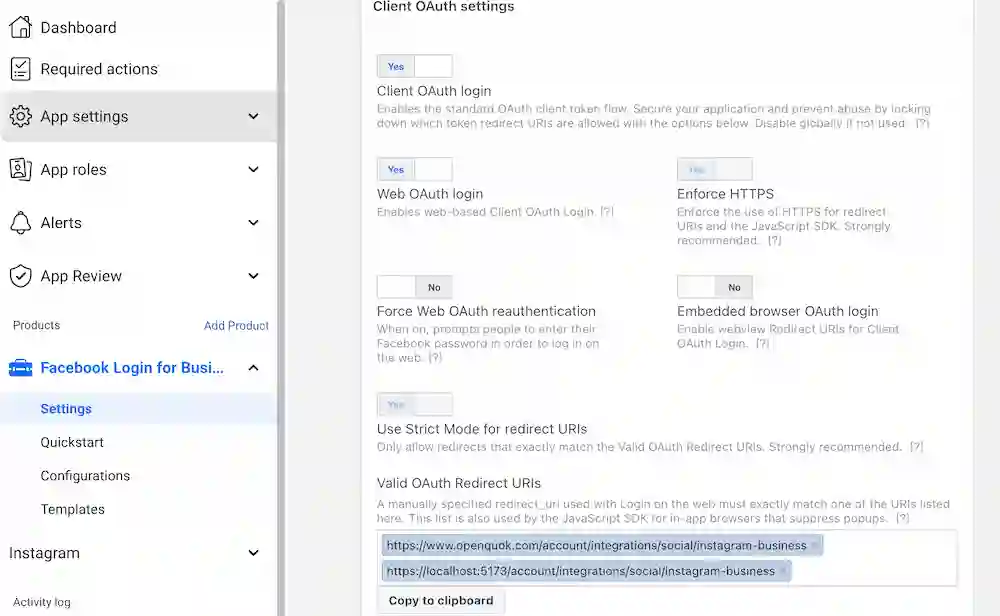
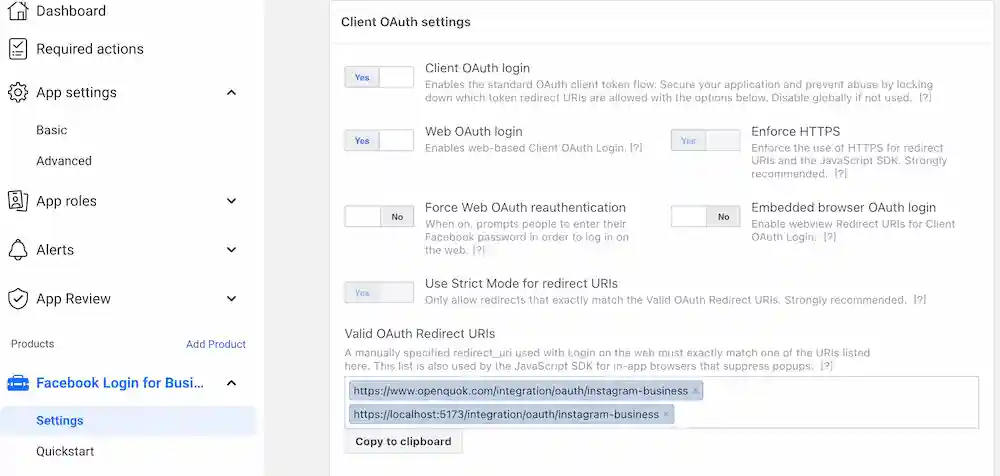
Refactor (./backend): Using public OAuth callback route for anonymous social integration connects instead of protected one

diff --git a/web/src/lib/ui/components/posts/IntegrationContinue.svelte b/web/src/lib/ui/components/posts/IntegrationContinue.svelte
@@ -5,11 +5,14 @@
 	import utc from 'dayjs/plugin/utc';
 	import timezone from 'dayjs/plugin/timezone';
 
+	import { browser } from '$app/environment';
 	import { goto } from '$app/navigation';
 	import { page } from '$app/state';
 	import { getRootPathAccount } from '$lib/area-protected';
+	import { integrationOAuthCallbackPath } from '$lib/integration/oauthCallbackPath';
 	import { continueIntegrationPresenter, integrationsRepository } from '$lib/integrations';
 	import { workspaceSettingsPresenter } from '$lib/settings';
+	import { getRootPathSignin } from '$lib/user-auth/constants/getRootpathUserAuth';
 	import { authenticationRepository } from '$lib/user-auth';
 	import { toast } from '$lib/ui/sonner';
 	import { absoluteUrl, route, url } from '$lib/utils/path';
@@ -33,6 +36,10 @@
 	};
 
 	let busy = $state(true);
+	/** Signed-out user landed without OAuth callback params — GET authorize requires a session. */
+	let signInRequiredForOAuthStart = $state(false);
+	/** Signed-out user finished OAuth server-side; prompt sign-in to open `/account`. */
+	let oauthAnonymousSuccess = $state<{ provider: string; onboarding: boolean } | null>(null);
 	/** Indeterminate-style value for {@link CircularProgressBar} while work is in progress. */
 	let progressValue = $state(45);
 	/** Inline Instagram (Business) account selection — same route as OAuth callback. */
@@ -84,6 +91,31 @@
 	const organizationIdParam = $derived(page.url.searchParams.get('organizationId') ?? '');
 	const returnTo = $derived(page.url.searchParams.get('returnTo') ?? route(getRootPathAccount()));
 	const onboarding = $derived(page.url.searchParams.get('onboarding') ?? undefined);
+
+	function signInHrefForRedirectTarget(targetPathAndQuery: string): string {
+		const signIn = getRootPathSignin();
+		const redirectURL = encodeURIComponent(route(targetPathAndQuery));
+		return absoluteUrl(`/${signIn}?redirectURL=${redirectURL}`);
+	}
+
+	let signInToContinueHref = $derived.by(() =>
+		signInHrefForRedirectTarget(`${page.url.pathname}${page.url.search}`)
+	);
+
+	let signInAfterAnonymousConnectHref = $derived.by(() => {
+		const o = oauthAnonymousSuccess;
+		if (!o) return '';
+		const accountRoot = route(getRootPathAccount());
+		const qs = new URLSearchParams({ added: o.provider });
+		if (o.onboarding) qs.set('onboarding', 'true');
+		return signInHrefForRedirectTarget(`${accountRoot}?${qs}`);
+	});
+
+	function oauthContinueAbsolute(providerSlug: string, searchParams?: URLSearchParams): string {
+		const path = integrationOAuthCallbackPath(providerSlug);
+		if (!searchParams || [...searchParams].length === 0) return absoluteUrl(path);
+		return absoluteUrl(`${path}?${searchParams}`);
+	}
 
 	function timezoneOffsetMinutes(): string {
 		const zone = dayjs.tz.guess() || 'UTC';
@@ -192,10 +224,7 @@
 						successReturnPath: returnTo,
 						onboarding: data.onboarding
 					};
-					await goto(
-						absoluteUrl(`${accountRoot}/integrations/social/${encodeURIComponent(p)}`),
-						{ replaceState: true }
-					);
+					await goto(oauthContinueAbsolute(p), { replaceState: true });
 					busy = false;
 					return;
 				}
@@ -205,14 +234,17 @@
 					refresh: data.internalId,
 					...(onboarding === 'true' && { onboarding: 'true' })
 				});
-				await goto(absoluteUrl(`${accountRoot}/integrations/social/${encodeURIComponent(p)}?${qs}`), {
-					replaceState: true
-				});
+				await goto(oauthContinueAbsolute(p, qs), { replaceState: true });
 				return;
 			}
 
 			const successQs = new URLSearchParams({ added: p });
 			if (data.onboarding) successQs.set('onboarding', 'true');
+			if (!authenticationRepository.isAuthenticated()) {
+				oauthAnonymousSuccess = { provider: p, onboarding: data.onboarding };
+				busy = false;
+				return;
+			}
 			await goto(absoluteUrl(`${accountRoot}?${successQs}`), { replaceState: true });
 		} finally {
 			busy = false;
@@ -244,6 +276,11 @@
 			const accountRoot = route(getRootPathAccount());
 			const successQs = new URLSearchParams({ added: 'instagram-business' });
 			if (vm.onboarding) successQs.set('onboarding', 'true');
+			if (!authenticationRepository.isAuthenticated()) {
+				oauthAnonymousSuccess = { provider: 'instagram-business', onboarding: vm.onboarding };
+				igBusinessPicker = null;
+				return;
+			}
 			await goto(absoluteUrl(`${accountRoot}?${successQs}`), { replaceState: true });
 			igBusinessPicker = null;
 		} catch {
@@ -258,7 +295,12 @@
 		await goto(absoluteUrl(dest), { replaceState: true });
 	}
 
-	async function startOAuthRedirect(p: string, orgParam: string, externalReturn: string) {
+	async function startOAuthRedirect(
+		p: string,
+		orgParam: string,
+		externalReturn: string,
+		refreshFromUrl: string | undefined
+	) {
 		try {
 			if (!workspaceSettingsPresenter.currentWorkspaceId) {
 				await workspaceSettingsPresenter.load({ includeTeam: false });
@@ -266,7 +308,7 @@
 			const organizationId = orgParam || workspaceSettingsPresenter.currentWorkspaceId || '';
 
 			// Prevent duplicate redirects on rapid reactivity/navigation updates.
-			const redirectKey = `${p}:${organizationId}:${externalReturn}:${onboarding ?? ''}`;
+			const redirectKey = `${p}:${organizationId}:${externalReturn}:${onboarding ?? ''}:${refreshFromUrl ?? ''}`;
 			if (startedOAuthRedirectKey === redirectKey) {
 				return;
 			}
@@ -289,6 +331,7 @@
 				organizationId,
 				provider: p,
 				externalUrl: externalReturn,
+				...(refreshFromUrl && { refresh: refreshFromUrl }),
 				...(onboarding === 'true' && { onboarding: 'true' })
 			});
 
@@ -306,12 +349,17 @@
 	}
 
 	async function run() {
+		if (oauthAnonymousSuccess) {
+			busy = false;
+			return;
+		}
 		if (igBusinessPicker) {
 			busy = false;
 			return;
 		}
 
 		busy = true;
+		signInRequiredForOAuthStart = false;
 		const p = provider;
 		const authCode = code;
 		const authState = oauthState;
@@ -336,7 +384,21 @@
 			await finishOAuthCallback(p, authCode, authState, refreshParam);
 			return;
 		}
-		await startOAuthRedirect(p, orgParam, externalReturn);
+
+		if (browser) {
+			try {
+				await authenticationRepository.checkAuth(globalThis.fetch);
+			} catch {
+				/* refresh failure ok — treat as signed out */
+			}
+		}
+		if (!authenticationRepository.isAuthenticated()) {
+			signInRequiredForOAuthStart = true;
+			busy = false;
+			return;
+		}
+
+		await startOAuthRedirect(p, orgParam, externalReturn, refreshParam);
 	}
 
 	$effect(() => {
@@ -364,11 +426,15 @@
 	<title
 		>{igBusinessPicker
 			? 'Choose Instagram account'
-			: isOAuthErrorCallback
-				? 'Connection cancelled'
-				: isOAuthSuccessCallback
-					? 'Connecting channel'
-					: 'Connect channel'}</title
+			: oauthAnonymousSuccess
+				? 'Channel connected'
+				: signInRequiredForOAuthStart
+					? 'Sign in to connect'
+					: isOAuthErrorCallback
+						? 'Connection cancelled'
+						: isOAuthSuccessCallback
+							? 'Connecting channel'
+							: 'Connect channel'}</title
 	>
 </svelte:head>
 
@@ -406,6 +472,22 @@
 			{/each}
 		</ul>
 		<Button class="mt-6" variant="ghost" onclick={() => cancelInstagramBusinessPicker()}>Cancel</Button>
+	</div>
+{:else if oauthAnonymousSuccess}
+	<div class="mx-auto max-w-lg px-4 py-10">
+		<h1 class="text-xl font-semibold text-base-content">Channel connected</h1>
+		<p class="mt-2 text-sm text-base-content/70">
+			Your account is linked. Sign in to open your workspace and manage channels.
+		</p>
+		<Button class="mt-6" href={signInAfterAnonymousConnectHref}>Sign in</Button>
+	</div>
+{:else if signInRequiredForOAuthStart}
+	<div class="mx-auto max-w-lg px-4 py-10">
+		<h1 class="text-xl font-semibold text-base-content">Sign in to connect</h1>
+		<p class="mt-2 text-sm text-base-content/70">
+			Starting this connection requires an Openquok session. Sign in, then try again from your workspace.
+		</p>
+		<Button class="mt-6" href={signInToContinueHref}>Sign in</Button>
 	</div>
 {:else}
 	<div class="mx-auto w-full max-w-2xl px-4 py-10 sm:max-w-3xl">

diff --git a/web/src/routes/(protected)/account/+page.svelte b/web/src/routes/(protected)/account/+page.svelte
@@ -8,6 +8,7 @@
 	import { goto } from '$app/navigation';
 	import { page } from '$app/state';
 	import { getRootPathAccount, protectedDashboardPagePresenter } from '$lib/area-protected';
+	import { integrationOAuthCallbackPath } from '$lib/integration/oauthCallbackPath';
 	import { workspaceSettingsPresenter } from '$lib/settings';
 	import { toast } from '$lib/ui/sonner';
 
@@ -220,7 +221,7 @@
 			toast.error('Create or select a workspace before connecting a channel.');
 			return;
 		}
-		const connectPath = `${accountRoot}/integrations/social/${encodeURIComponent(identifier)}`;
+		const connectPath = integrationOAuthCallbackPath(identifier);
 		const qs = new URLSearchParams({ organizationId: orgId, returnTo: accountRoot });
 		void goto(absoluteUrl(`${connectPath}?${qs}`));
 	}
@@ -253,14 +254,14 @@
 				integrationId: integration.id,
 				returnTo: accountRoot
 			});
-			return absoluteUrl(`${accountRoot}/integrations/social/instagram-business?${qs}`);
+			return absoluteUrl(`${integrationOAuthCallbackPath('instagram-business')}?${qs}`);
 		}
 		const qs = new URLSearchParams({
 			organizationId: workspaceId,
 			returnTo: accountRoot,
 			refresh: integration.internalId
 		});
-		return absoluteUrl(`${accountRoot}/integrations/social/${encodeURIComponent(integration.identifier)}?${qs}`);
+		return absoluteUrl(`${integrationOAuthCallbackPath(integration.identifier)}?${qs}`);
 	}
 
 	$effect(() => {

diff --git a/web/src/lib/area-protected/ProtectedCalendarPage.presenter.svelte.ts b/web/src/lib/area-protected/ProtectedCalendarPage.presenter.svelte.ts
@@ -14,6 +14,7 @@ import type { IconName } from '$data/icon';
 
 import { socialProviderIcon } from '$lib/posts/constants/socialProviderIcons';
 
+import { integrationOAuthCallbackPath } from '$lib/integration/oauthCallbackPath';
 import { route } from '$lib/utils/path';
 import { getRootPathAccount } from '$lib/area-protected/getRootPathProtectedArea';
 
@@ -46,14 +47,14 @@ export class ProtectedCalendarPagePresenter {
 				integrationId: integration.id,
 				returnTo: accountRoot
 			});
-			return `${accountRoot}/integrations/social/instagram-business?${qs}`;
+			return `${integrationOAuthCallbackPath('instagram-business')}?${qs}`;
 		}
 		const qs = new URLSearchParams({
 			organizationId: workspaceId,
 			returnTo: accountRoot,
 			refresh: integration.internalId
 		});
-		return `${accountRoot}/integrations/social/${encodeURIComponent(integration.identifier)}?${qs}`;
+		return `${integrationOAuthCallbackPath(integration.identifier)}?${qs}`;
 	}
 
 	setTargetedChannels(channels: CreateSocialPostChannelViewModel[]): void {

diff --git a/web/src/routes/(protected)/account/oauth/authorize/+page.svelte b/web/src/routes/(protected)/account/oauth/authorize/+page.svelte
@@ -2,7 +2,8 @@
 	import { goto } from '$app/navigation';
 	import { page } from '$app/state';
 	import { getRootPathAccount } from '$lib/area-protected';
-	import { absoluteUrl, route, url } from '$lib/utils/path';
+	import { integrationOAuthCallbackPath } from '$lib/integration/oauthCallbackPath';
+	import { absoluteUrl, url } from '$lib/utils/path';
 
 	/**
 	 * App-level OAuth authorize (e.g. third-party clients), not workspace channel connect.
@@ -14,11 +15,10 @@
 
 	$effect(() => {
 		if (!legacyProvider || !legacyOrganizationId) return;
-		const accountRoot = route(getRootPathAccount());
 		const qs = new URLSearchParams({ organizationId: legacyOrganizationId });
 		if (legacyReturnTo) qs.set('returnTo', legacyReturnTo);
 		void goto(
-			absoluteUrl(`${accountRoot}/integrations/social/${encodeURIComponent(legacyProvider)}?${qs}`),
+			absoluteUrl(`${integrationOAuthCallbackPath(legacyProvider)}?${qs}`),
 			{ replaceState: true }
 		);
 	});

diff --git a/backend/integrations/providers/threadsProvider.ts b/backend/integrations/providers/threadsProvider.ts
@@ -12,6 +12,7 @@ import { config } from "../../config/GlobalConfig";
 import { makeId } from "../../utils/make.is";
 import { publicUrlForObjectKey } from "../../repositories/MediaRepository";
 import { oauthFrontendOrigin } from "../utils/oauthFrontendOrigin";
+import { oauthFrontendSocialCallbackPath } from "../utils/oauthFrontendCallbackPath";
 import { logger } from "../../utils/Logger";
 
 type ThreadsMediaItem = { path: string; bucket?: string };
@@ -48,7 +49,7 @@ function sleepMs(ms: number): Promise<void> {
 }
 
 function threadsRedirectUri(): string {
-    return `${oauthFrontendOrigin()}/account/integrations/social/threads`;
+    return `${oauthFrontendOrigin()}${oauthFrontendSocialCallbackPath("threads")}`;
 }
 
 function threadsOAuth(): { appId: string; appSecret: string } {

diff --git a/backend/integrations/providers/instagramStandaloneProvider.ts b/backend/integrations/providers/instagramStandaloneProvider.ts
@@ -12,6 +12,7 @@ import dayjs from "dayjs";
 import { config } from "../../config/GlobalConfig";
 import { makeId } from "../../utils/make.is";
 import { oauthFrontendOrigin } from "../utils/oauthFrontendOrigin";
+import { oauthFrontendSocialCallbackPath } from "../utils/oauthFrontendCallbackPath";
 
 const IG_GRAPH = "https://graph.instagram.com";
 
@@ -20,7 +21,7 @@ function instagramStandaloneOAuth(): { appId: string; appSecret: string } {
 }
 
 function instagramStandaloneRedirectUri(): string {
-    return `${oauthFrontendOrigin()}/account/integrations/social/instagram-standalone`;
+    return `${oauthFrontendOrigin()}${oauthFrontendSocialCallbackPath("instagram-standalone")}`;
 }
 
 function normalizeOAuthPermissionList(raw: unknown): string[] {

diff --git a/backend/integrations/providers/instagramBusinessProvider.ts b/backend/integrations/providers/instagramBusinessProvider.ts
@@ -13,6 +13,7 @@ import { config } from "../../config/GlobalConfig";
 import { AppError } from "../../errors/AppError";
 import { makeId } from "../../utils/make.is";
 import { oauthFrontendOrigin } from "../utils/oauthFrontendOrigin";
+import { oauthFrontendSocialCallbackPath } from "../utils/oauthFrontendCallbackPath";
 
 const GRAPH = "https://graph.facebook.com/v20.0";
 
@@ -21,7 +22,7 @@ function facebookOAuth(): { appId: string; appSecret: string } {
 }
 
 function instagramBusinessRedirectUri(): string {
-    return `${oauthFrontendOrigin()}/account/integrations/social/instagram-business`;
+    return `${oauthFrontendOrigin()}${oauthFrontendSocialCallbackPath("instagram-business")}`;
 }
 
 export type InstagramBusinessAccountOption = {

diff --git a/web/src/lib/ui/components/posts/AddProvider.svelte b/web/src/lib/ui/components/posts/AddProvider.svelte
@@ -3,6 +3,7 @@
 
 	import { goto } from '$app/navigation';
 	import { getRootPathAccount } from '$lib/area-protected';
+	import { integrationOAuthCallbackPath } from '$lib/integration/oauthCallbackPath';
 	import { absoluteUrl, route } from '$lib/utils/path';
 	import { toast } from '$lib/ui/sonner';
 	import { icons } from '$data/icon';
@@ -107,7 +108,7 @@
 		open = false;
 		const accountRoot = route(getRootPathAccount());
 		const afterConnect = returnToPath ?? accountRoot;
-		const connectPath = `${accountRoot}/integrations/social/${encodeURIComponent(identifier)}`;
+		const connectPath = integrationOAuthCallbackPath(identifier);
 		const qs = new URLSearchParams({
 			organizationId: workspaceId,
 			returnTo: afterConnect,

diff --git a/web/src/lib/ui/components/posts/OnBoardingModal.svelte b/web/src/lib/ui/components/posts/OnBoardingModal.svelte
@@ -4,6 +4,7 @@
 	import { goto } from '$app/navigation';
 	import { page } from '$app/state';
 	import { getRootPathAccount } from '$lib/area-protected';
+	import { integrationOAuthCallbackPath } from '$lib/integration/oauthCallbackPath';
 	import { absoluteUrl, route } from '$lib/utils/path';
 	import { toast } from '$lib/ui/sonner';
 	import { icons } from '$data/icon';
@@ -73,7 +74,7 @@
 			return;
 		}
 		close();
-		const connectPath = `${accountRoot}/integrations/social/${encodeURIComponent(identifier)}`;
+		const connectPath = integrationOAuthCallbackPath(identifier);
 		const qs = new URLSearchParams({
 			organizationId: workspaceId,
 			returnTo,

diff --git a/web/src/lib/integration/oauthCallbackPath.ts b/web/src/lib/integration/oauthCallbackPath.ts
@@ -1,0 +1,6 @@
+import { route } from '$lib/utils/path';
+
+/** Public SvelteKit route where providers redirect after OAuth (no `(protected)` layout). */
+export function integrationOAuthCallbackPath(provider: string): string {
+	return route(`/integration/oauth/${encodeURIComponent(provider)}`);
+}

diff --git a/backend/integrations/utils/oauthFrontendCallbackPath.ts b/backend/integrations/utils/oauthFrontendCallbackPath.ts
@@ -1,0 +1,4 @@
+/** Public web path for OAuth return (matches SvelteKit `(public)/integration/oauth/[provider]`). */
+export function oauthFrontendSocialCallbackPath(provider: string): string {
+	return `/integration/oauth/${encodeURIComponent(provider)}`;
+}
